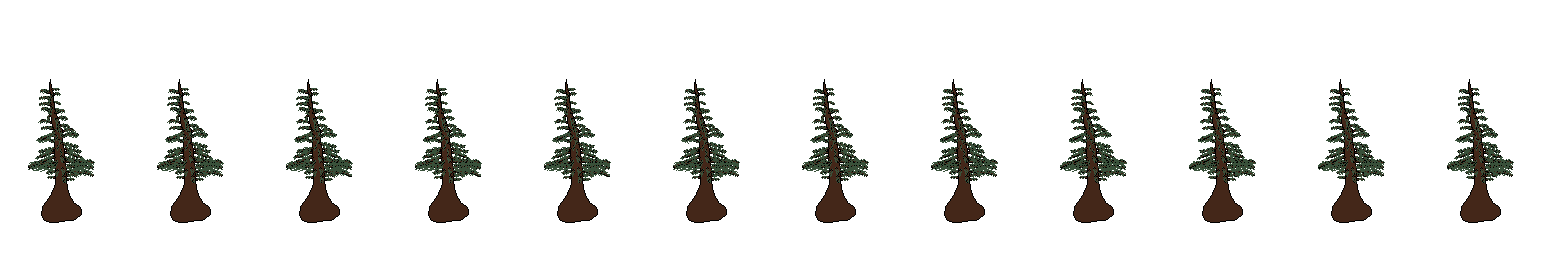
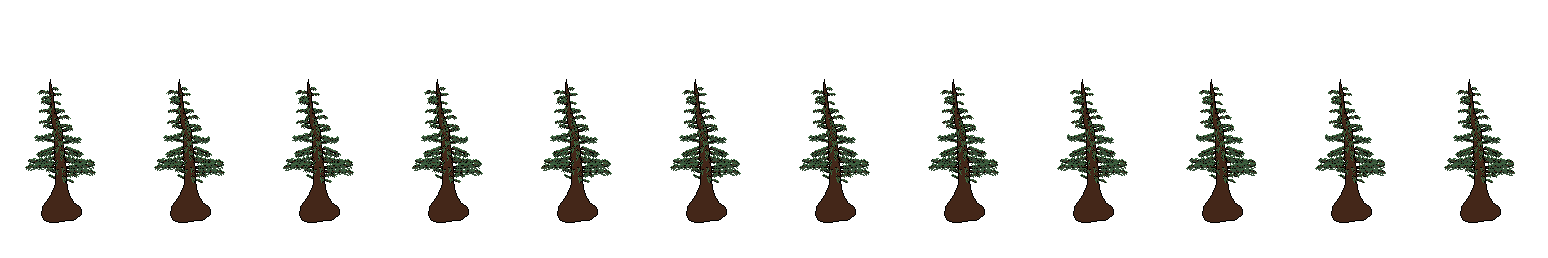
treebranch highlights, random branch layering

diff --git a/Editor/TreeSpritesheetGenerator.cs b/Editor/TreeSpritesheetGenerator.cs
@@ -5,6 +5,7 @@ using UnityEngine.UIElements;
 using UnityEditor.UIElements;
 using System.IO;
 using System.Collections.Generic;
+using System;
 
 public class TreeSpritesheetGenerator : EditorWindow
 {
@@ -54,7 +55,7 @@ public class TreeSpritesheetGenerator : EditorWindow
 
         inputAtlasField = new TextField();
 		inputAtlasField.label = "Treebranch atlas image (include extension)";
-		inputAtlasField.value = "Assets\\Art\\AutomationReference\\treebranch_atlas.png";
+		inputAtlasField.value = "Assets\\Art\\AutomationReference\\treebranch_atlas_highlights.png";
 		root.Add(inputAtlasField);
 
         inputBaseField = new TextField();
@@ -117,9 +118,7 @@ public class TreeSpritesheetGenerator : EditorWindow
         Color size3ColorTransparent = new Color(size3Color.r, size3Color.g, size3Color.b, 0.4f);
         Color sizeF0ColorTransparent = new Color(sizeF0Color.r, sizeF0Color.g, sizeF0Color.b, 0.4f);
         Color sizeF1ColorTransparent = new Color(sizeF1Color.r, sizeF1Color.g, sizeF1Color.b, 0.4f);
-
-        int frameCounter = 0;
-
+        
         // Load the tree base texture
         string basePath = inputBaseField.value;
         Texture2D baseTexture = AssetDatabase.LoadAssetAtPath<Texture2D>(basePath);
@@ -150,17 +149,18 @@ public class TreeSpritesheetGenerator : EditorWindow
                         branchData.xPos = x;
                         branchData.yPos = y;
                         branchData.direction = pixelColor.a < 1.0f ? -1 : 1;
-                        branchData.currentFrame = Random.Range(0, NUM_KEYFRAMES / NUM_FRAMESTATES);
+                        branchData.currentFrame = UnityEngine.Random.Range(0, NUM_KEYFRAMES / NUM_FRAMESTATES);
                         if(branchData.direction == -1){
                             branchData.currentFrame = (branchData.currentFrame + (NUM_KEYFRAMES / 2)) % NUM_KEYFRAMES;
                         }
-                        branchData.sizeType = Random.Range(0, NUM_FRAMETYPES);
+                        branchData.sizeType = UnityEngine.Random.Range(0, NUM_FRAMETYPES);
                         branchData.size = sizeFound;
                         branchDataList.Add(branchData);
                     }
                 }
             }
         }
+        ShuffleList(branchDataList);
 
         // Load the atlas texture
         string atlasPath = inputAtlasField.value;
@@ -229,6 +229,19 @@ public class TreeSpritesheetGenerator : EditorWindow
 		} else{
 			Debug.Log("Did not save due to incomplete output filepath");
 		}
+    }
+
+    void ShuffleList<T>(List<T> list) {
+        System.Random random = new System.Random();
+        int n = list.Count;
+
+        // Start from the end and swap elements with a random one
+        for (int i = n - 1; i > 0; i--) {
+            int j = random.Next(0, i + 1);
+            T temp = list[i];
+            list[i] = list[j];
+            list[j] = temp;
+        }
     }
 }
 
